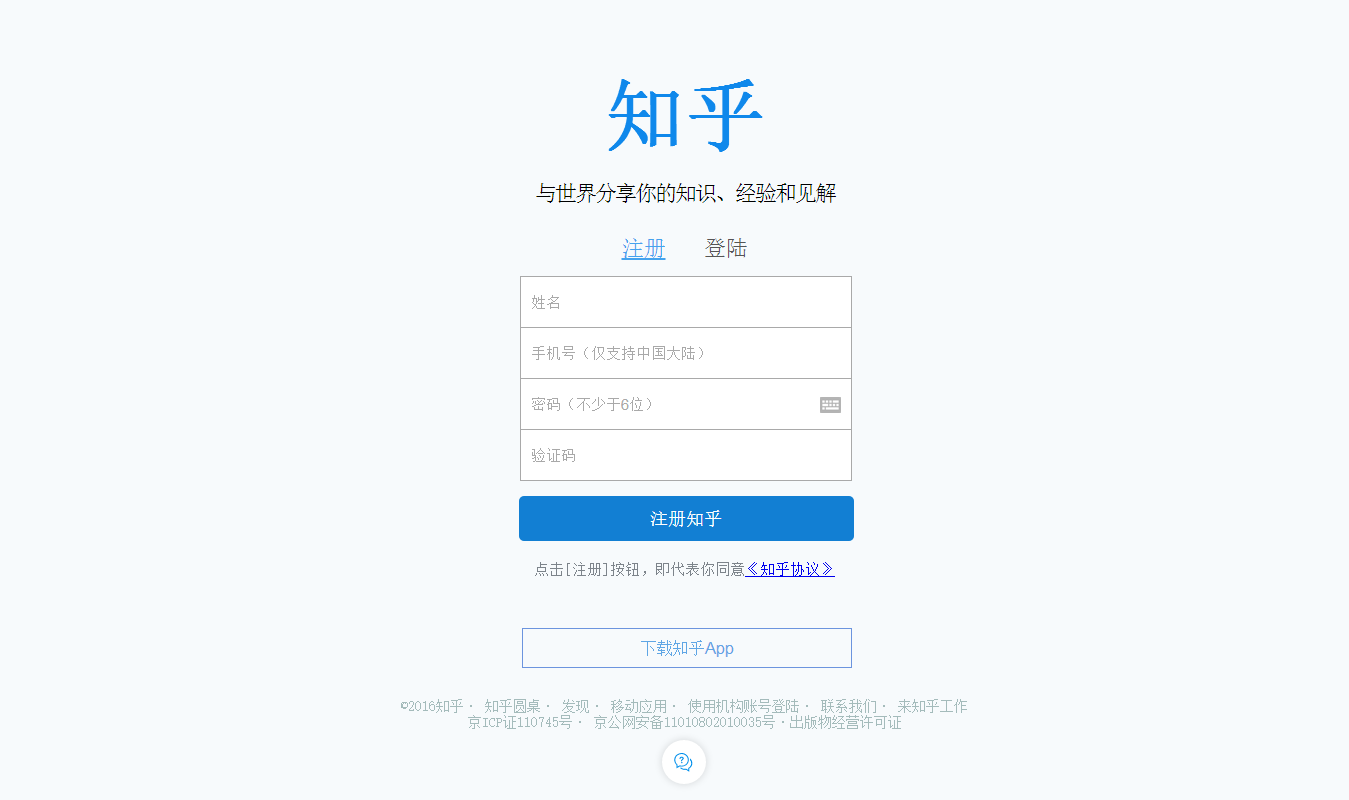
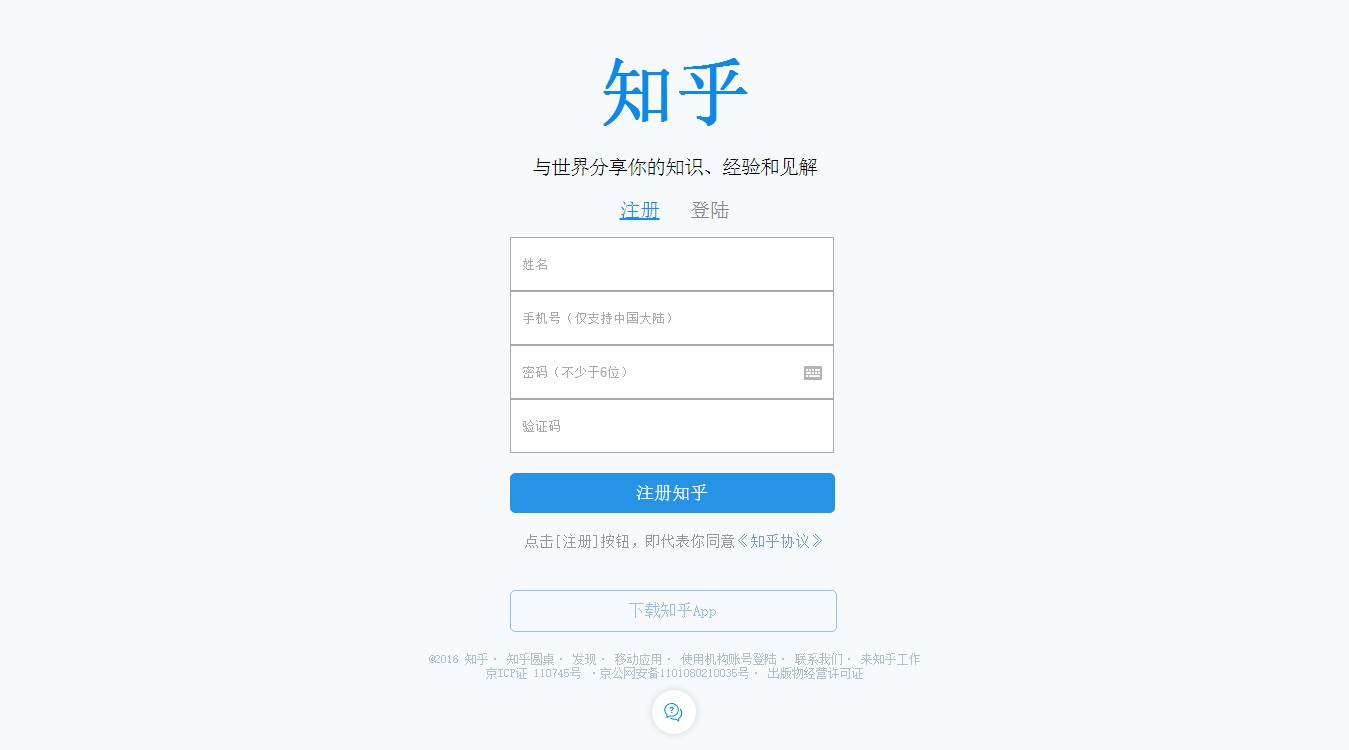
知乎仿站-知乎登录页

diff --git a/知乎仿站/知乎首页/知乎仿站.html b/知乎仿站/知乎首页/知乎仿站.html
@@ -1,51 +1,52 @@
-<!DOCTYPE html PUBLIC "-//W3C//DTD XHTML 1.0 Strict//EN" "http://www.w3.org/TR/xhtml1/DTD/xhtml-strict.dtd">
+<!DOCTYPE html>
 <html>
 	<head>
-		<meta charset="UTF-8">
+		<meta charset="utf-8">
 		<meta name="X-UA-Compatible" content="IE=edge,chrome=1"/>
 		<title>知乎 - 与世界分享你的知识、经验和见解</title>
 		<link rel="shortcut icon" href="./zhihuicon.ico" type="image/x-icon"/>
-		<link rel="stylesheet" type="text/css" href="./zhihu.css">
+		<link rel="stylesheet" href="./zhihu.css" type="text/css"/>
 	</head>
 	<body>
-		<header>
-			<h1>知乎</h1>
-			<h2>与世界分享你的知识、经验和见解</h2>
+      <section class="wrap">
+		<header class="header1 tac">
+			<h1 class="header1-h1">知乎</h1>
+			<h2 class="header1-h2 mt20 fs20">与世界分享你的知识、经验和见解</h2>
 		</header>
-		<section>
-			<nav id="nav">
-			<a href="#" class="sign_up">注册</a>
-			<a href="#" class="sign_in">登陆</a>
-			</nav>		
-				<form method="post" id="form" action="zhihu.php">
-					<input type="text" name="username"placeholder="姓名"/>
-					<input type="text" name="phonenumber" placeholder="手机号（仅支持中国大陆）"/>
-					<input type="password" name="password" placeholder="密码（不少于6位）"/>
-					<input type="text" name="verification_code" id="vcode" placeholder="验证码" />
-				</form>
-				<section>
-				<button type="submit" id="button"><a href="#">注册知乎</a></button>
-				<p id="sign_agree">点击[注册]按钮，即代表你同意<a href=
-				"https://www.zhihu.com/terms">《知乎协议》</a></p>
-				</section>
-				<button id="downloadapp"><a href="https://api.zhihu.com/client/download/apk">下载知乎App</a></button>
-		</section>
-		<footer>
-			<nav id="footer_nav">
-			     ©2016知乎·
-				<a href="https://www.zhihu.com/roundtable">知乎圆桌</a>·
-				<a href="https://www.zhihu.com/explore">发现</a>·
-				<a href="https://www.zhihu.com/app/">移动应用</a>·
-				<a href="https://www.zhihu.com/org/signin">使用机构账号登陆</a>·
-				<a href="https://www.zhihu.com/contact">联系我们</a>·
-				<a href="https://www.zhihu.com/careers">来知乎工作</a>
+		<section class="section1 tac">
+			<nav class="section1-nav mt20 fs20">
+				<a href="#" class="sign_up padding">注册</a>
+				<a href="#" class="sign_in tdn padding">登陆</a>
 			</nav>
-				<a href="http://www.miibeian.gov.cn/state/outPortal/loginPortal.action;jsessionid=p70GYpkTC7qxbWMp4wDslrvgD6Sv3DyLChDlFp9DpQb35GstZLQv!-2032569589">京ICP证110745号</a>·
-				京公网安备11010802010035号·<a href="http://zhstatic.zhihu.com/assets/zhihu/publish-license.jpg">出版物经营许可证</a>
-			<section><a href="mailto:xxj7447@gmail.com" target="" ><img src="./advice.png" alt="提交反馈" title="提交反馈"></a></section>
+			<form class="form1">
+				<input type="text" name="username" class="form1un dpb whp" placeholder="姓名"/>
+				<input type="text" name="phonenumber" class="form1pn dpb whp" placeholder="手机号（仅支持中国大陆）"/>
+				<input type="password" name="password" class="form1pw dpb whp" placeholder="密码（不少于6位）"/>
+				<input type="text" name="vertification code" class="form1vc dpb whp" placeholder="验证码"/>
+				<input type="submit" class="sign_zh dpb mt20" value="注册知乎">
+			</form>
+			<p class="sign_agree mt20">点击[注册]按钮，即代表你同意<a href="#" class="sign_agree2 tdn">《知乎协议》</a></p>
+			<nav class="downloadapp1">
+			<a href="#" class="downloadapp dpb tac tdn">下载知乎App</a>
+			</nav>
+		</section>
+		<footer class="footer1 tac mt20">
+			<nav>
+				<span class="fc">@2016 知乎·</span>
+				<a href="#" class="tdn fc">知乎圆桌·</a>
+				<a href="#" class="tdn fc">发现·</a>
+				<a href="#" class="tdn fc">移动应用·</a>
+				<a href="#" class="tdn fc">使用机构账号登陆·</a>
+				<a href="#" class="tdn fc">联系我们·</a>
+				<a href="#" class="tdn fc">来知乎工作</a>
+			</nav>
+			<nav>
+				<a href="#" class="tdn fc">京ICP证 110745号</a>
+				<span class="fc">·京公网安备1101080210035号·</span>
+				<a href="#" class="tdn fc">出版物经营许可证</a>
+			</nav>
+			<img src="./advice.png" alt="提交反馈" title="提交反馈">
 		</footer>
-
-
-	
+	  </section>
 	</body>
 </html>

diff --git a/知乎仿站/知乎首页/zhihu.css b/知乎仿站/知乎首页/zhihu.css
@@ -1,106 +1,93 @@
 *{
-	margin:0px;
-	padding:0px;
+	margin:0;
+	padding:0;
 }
 body{
-	position:relative;
-	text-align:center;
-	background:#F7FAFC;
-}
-h1{
-	margin-top:70px;
-	margin-left:20px;
-	font-size:80px;
-    color:#0F88EB;
-}
-h2{
-	color:#000000;
-	font-weight:normal;
-	font-size:22px;
-	margin-top:20px;
-	margin-left:20px;
-	letter-spacing:-2px;
-}
-#nav{
-	margin-top:30px;
-	margin-left:20px;
-}
-.sign_up{
-	font-size:22px;
-	margin-right:30px;
-	color:#45A3EE;
-}
-.sign_in{
-	font-size:22px;
-	color:#555555;
-	text-decoration:none;
-}
-#form{
-	position:relative;
-	width:310px;
-	height:200px;
-	margin:15px auto 0;
-}
-input{
-	display:block;
-	width:310px;
-	height:30px;
-	padding:10px;
-	font-size:15px;
-	border:1px solid #A9A9A9;
-	border-bottom:0px;
-}
-#vcode{
-	border-bottom:1px solid #A9A9A9;
-}
-#button{
-	position:relative;
-	margin-top:20px;
-	width:335px;
-	height:45px;
-	margin-left:23px;
-	font-size:18px;
-	border:none;
-	border-radius:5px;
-	background-color:#127FD3;
-	color:#EAEAEA;
-}
-#button:hover{
-	background-color:#40A3CD;
-}
-#button a{
-	text-decoration:none;
-	color:#ffffff;
-}
-#sign_agree{
-	margin-top:20px;
-	color:#7D848B;
-	font-size:15px;
-	margin-left:20px;
-}
-#downloadapp{
-	margin-top:50px;
-	width:330px;
-	height:40px;
-	margin-left:25px;
-	border:1px solid #6C94DE;
 	background-color:#F7FAFC;
 }
-#downloadapp a{
+.wrap{
+	width:800px;
+	margin:0 auto;
+}
+.header1{
+	margin-top:50px;
+}
+.tac{
+	text-align:center;
+}
+.header1-h1{
+	font-size:75px;
+	color:#0F88EB;
+}
+.header1-h2{
+	font-weight:normal;
+	letter-spacing:-1px;
+}
+.fs20{
+	font-size:20px;
+}
+.mt20{
+	margin-top:20px;
+}
+.tdn{
 	text-decoration:none;
-	font-size:16px;
-	color:#5FA6E5;
 }
-footer{
-	margin-top:30px;
-	margin-left:20px;
-	font-size:14px;
-	color:#A4BBBB;
+.padding{
+	padding:10px;
 }
-footer a{
-	text-decoration:none;
-	color:#A4BBBB;
+.sign_up{
+	color:#158BEB;
 }
-footer a:hover{
-	text-decoration:underline;
+.sign_in{
+	color:#858686;
+}
+.dpb{
+	display:block;
+}
+.form1{
+	width:330px;
+	margin:15px auto 0;
+}
+.whp{
+	width:300px;
+	height:30px;
+	padding:10px;
+}
+.sign_zh{
+	border:1px solid #2793E7;
+	background-color:#2793E7;
+	border-radius:5px;
+	font-size:18px;
+	cursor:pointer;
+	color:#FFFFFF;
+	width:325px;
+	height:40px;
+}
+.sign_zh:hover{
+	background:#55ABED;
+}
+.sign_agree{
+	font-size:15px;
+	color:#999999;
+}
+.sign_agree2{
+	color:#799CC7;
+}
+.downloadapp1{
+	width:330px;
+	margin:40px auto 0;
+}
+.downloadapp{
+	width:325px;
+	height:30px;
+	border:1px solid #96C2E9;
+	padding-top:10px;
+	border-radius:5px;
+	color:#96C2E9;
+}
+.footer1{
+	font-size:10px;
+}
+.fc{
+	color:#B1C2CD;
 }
